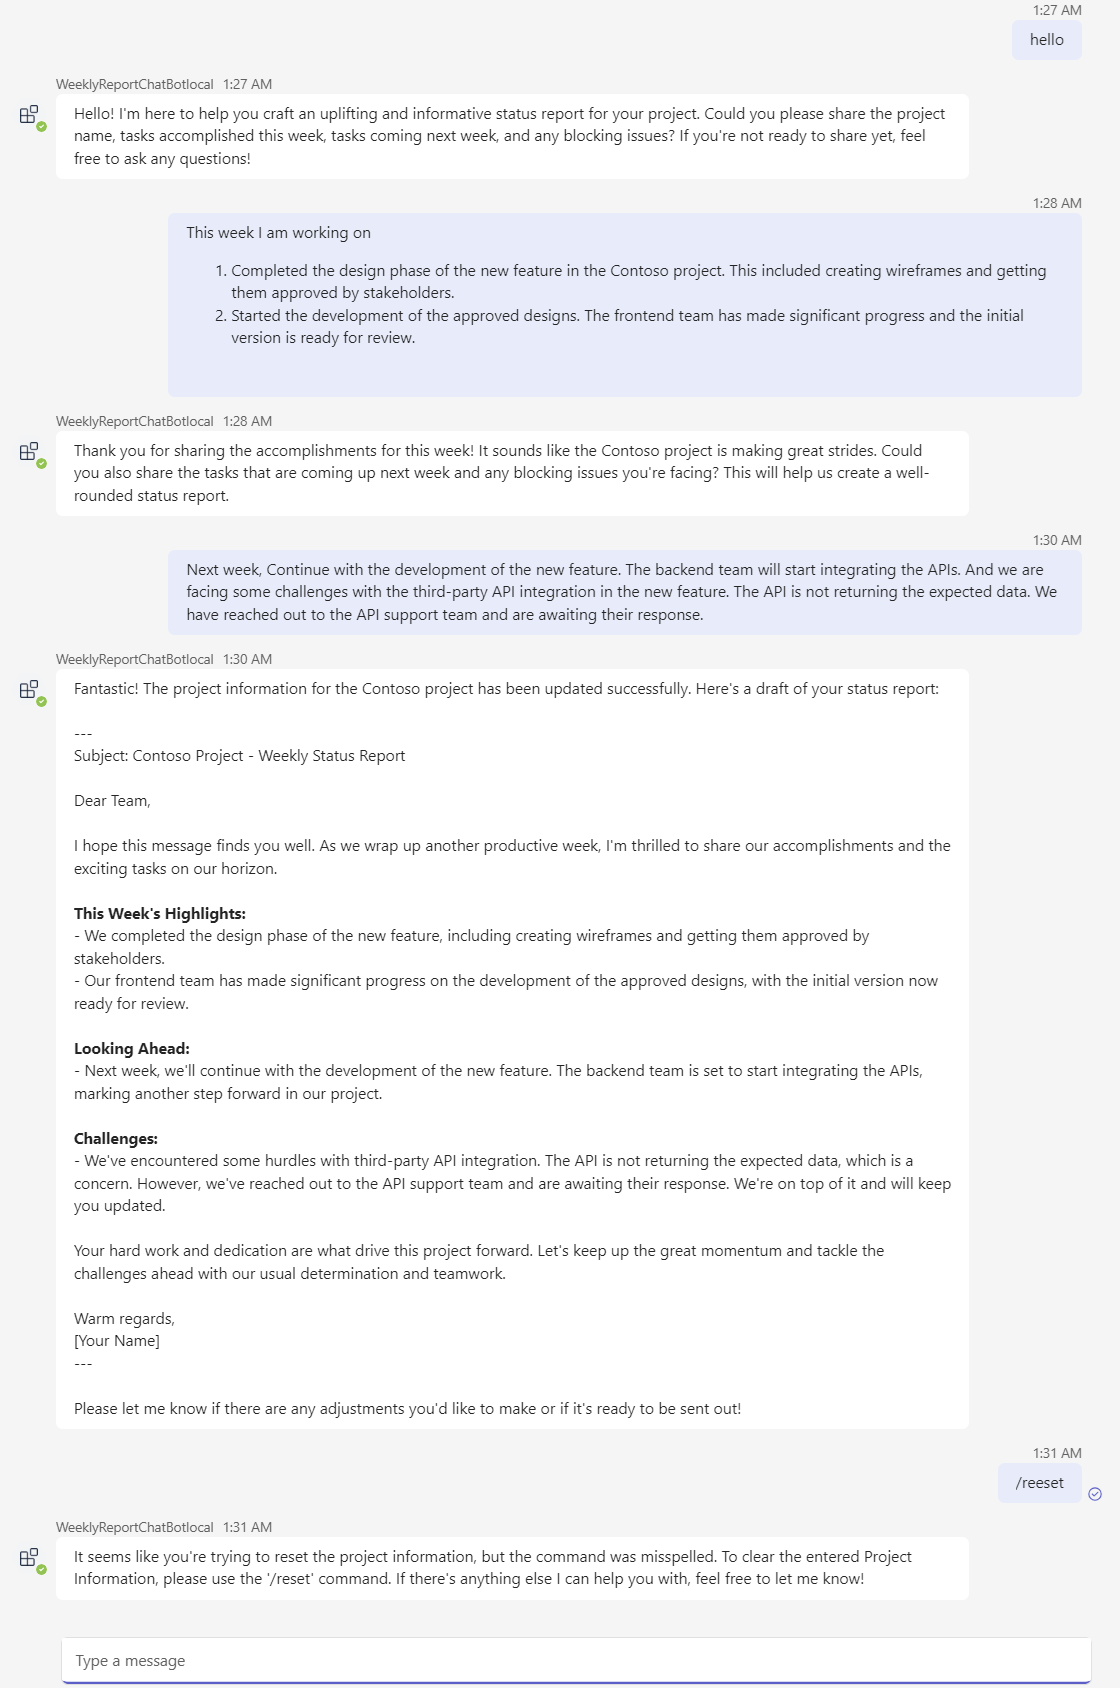
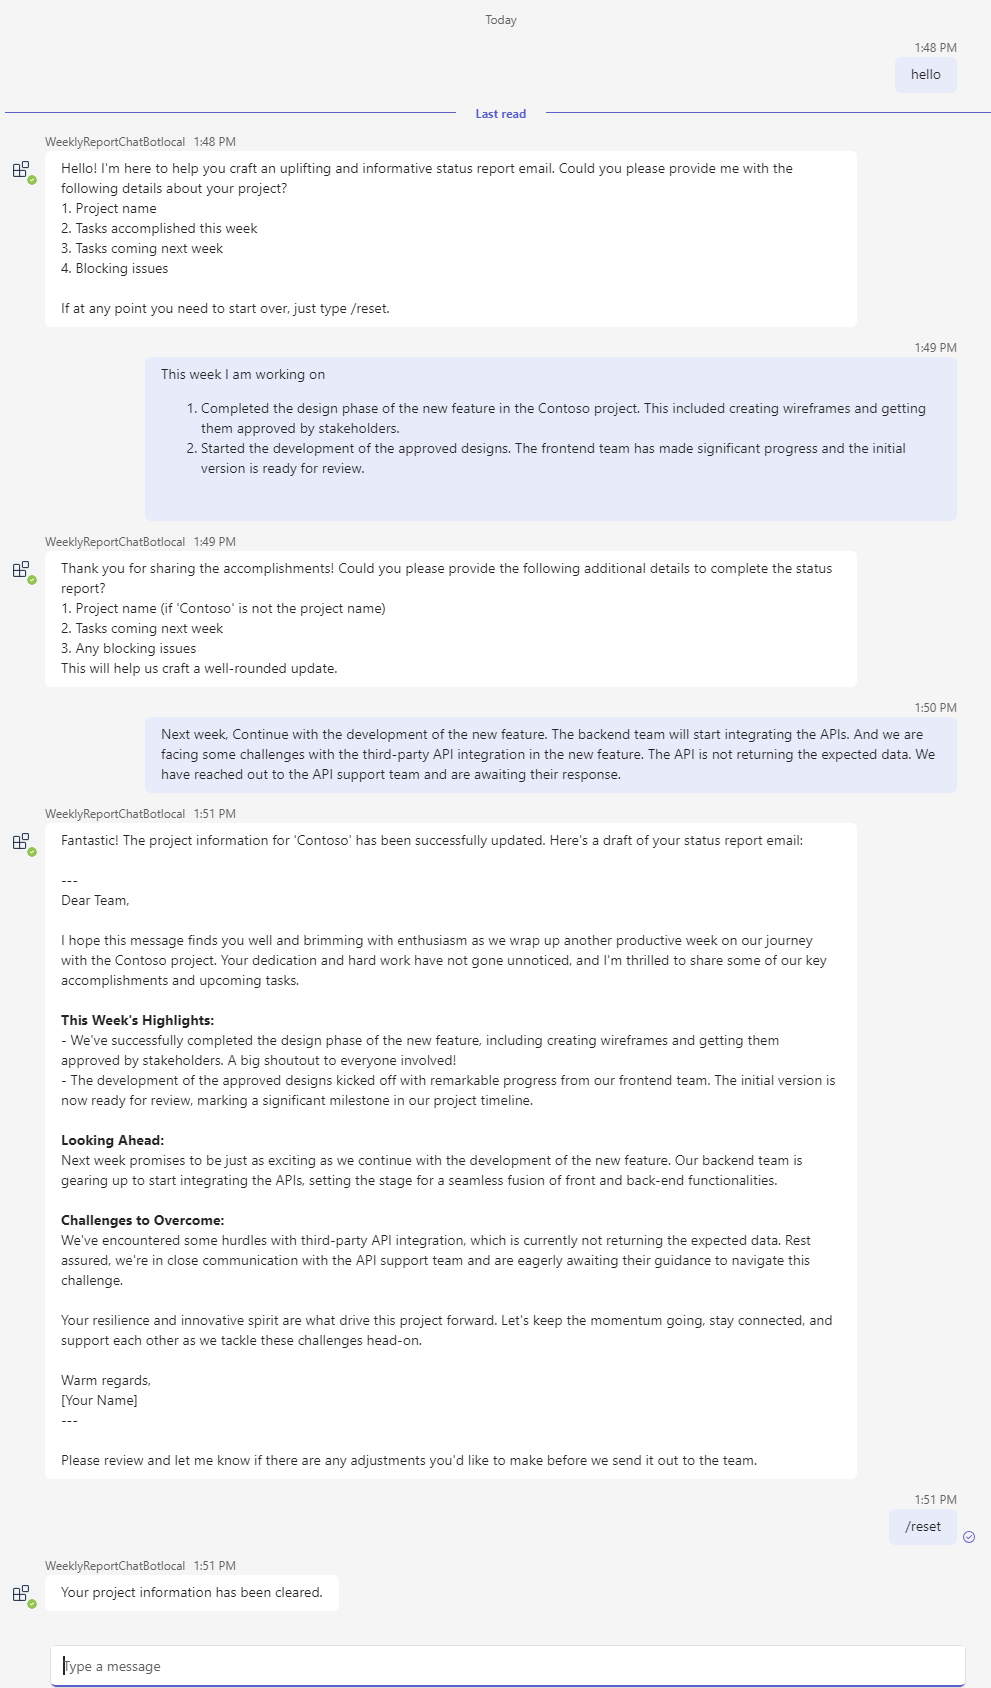
fix descriptive errors

diff --git a/Allfiles/Labs/Guided-Exercise5/app.ts b/Allfiles/Labs/Guided-Exercise5/app.ts
@@ -56,7 +56,7 @@ const app = new Application({
 // List for /reset command and then delete the conversation state
 app.message('/reset', async (context: TurnContext, state: ApplicationTurnState) => {
   state.deleteConversationState();
-  await context.sendActivity("Clearing your project information.");
+  await context.sendActivity("Your project information has been cleared.");
 });
 
 // Define the method for updating project information

diff --git a/Instructions/Labs/3-Guided-project/6-Exercise 5.md b/Instructions/Labs/3-Guided-project/6-Exercise 5.md
@@ -81,7 +81,7 @@ Use the AI Chat Bot template to create a new bot:
     // See https://aka.ms/teams-ai-library to learn more about the Teams AI library.
     import { Application, ActionPlanner, OpenAIModel, PromptManager, DefaultConversationState, TurnState } from "@microsoft/teams-ai";
     ```
-1. In the file *src/app.ts*, add `ProjectInformation` interface and `ApplicationTurnState` definition.
+1. In the file *src/app.ts* before the section *Create AI components*,  add `ProjectInformation` interface and `ApplicationTurnState` definition.
     ```typescript
     // Register project information item related handlers
     interface ProjectInformation {
@@ -97,13 +97,15 @@ Use the AI Chat Bot template to create a new bot:
       projectInformation: ProjectInformation;
     }
     type ApplicationTurnState = TurnState<ConversationState>;
+
+    // Create AI components
     ```
-1. In the file *src/app.ts*, add the bot's response to messages.
+1. In the file *src/app.ts* after the section *Define storage and application*, add the bot's response to messages.
     ```typescript
     // List for /reset command and then delete the conversation state
     app.message('/reset', async (context: TurnContext, state: ApplicationTurnState) => {
       state.deleteConversationState();
-      await context.sendActivity("Clearing your project information.");
+      await context.sendActivity("Your project information has been cleared.");
     });
 
     // Define the method for updating project information
